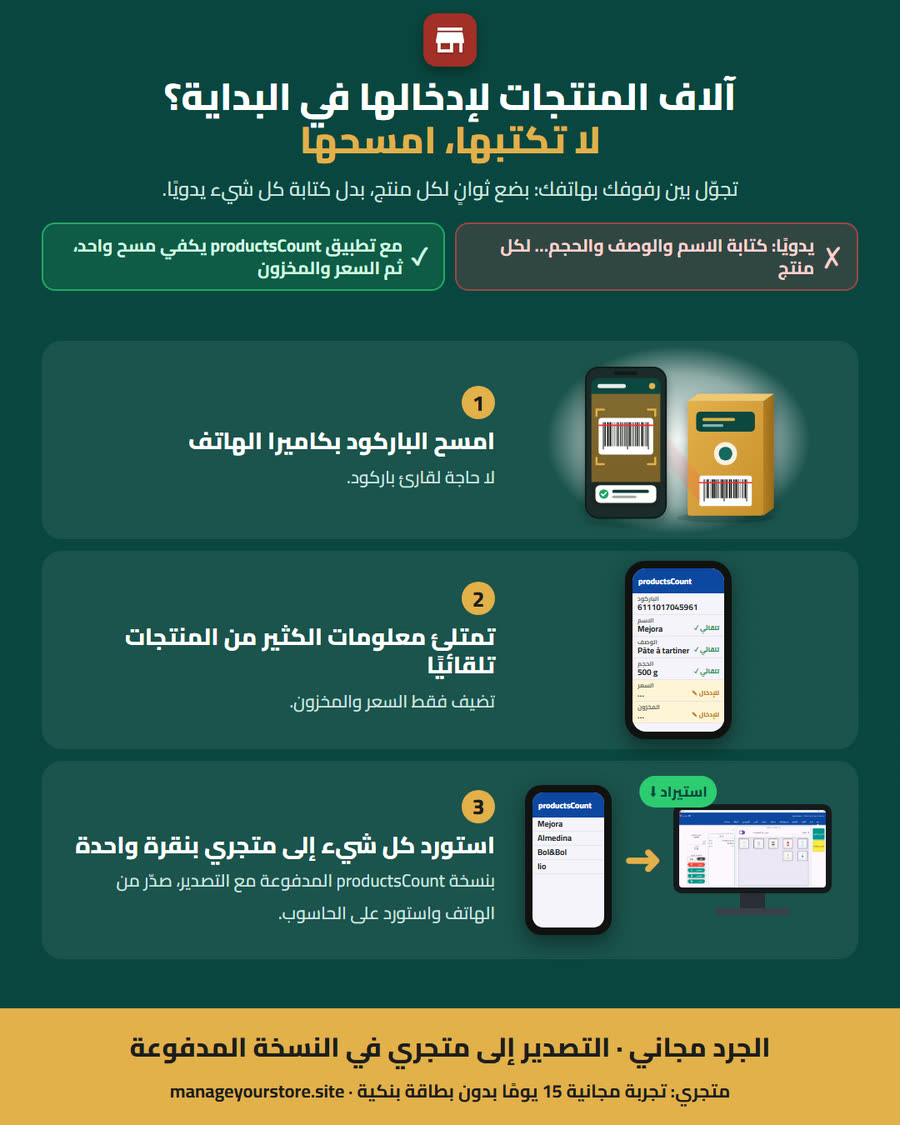
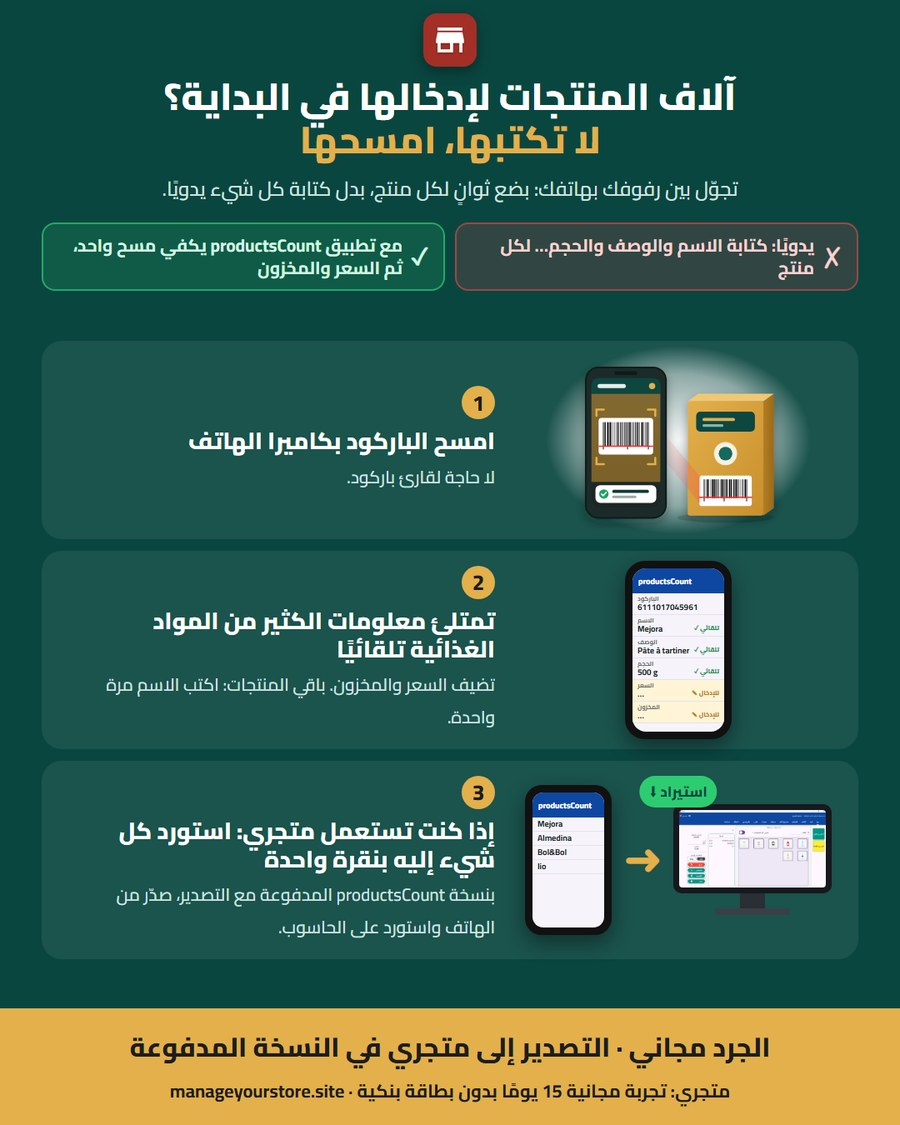
productsCount: say auto-fill is for food and grocery products
Pages and pictures now say the details fill in for food and grocery
products, and that other products are typed once. Picture step 3 says
the import is for shops that use My Store.

diff --git a/productscount.html b/productscount.html
@@ -196,10 +196,10 @@ src="https://www.facebook.com/tr?id=1079131717015007&ev=PageView&noscript=1"
                data-ar="قد يضم المتجر مئات أو آلاف المنتجات. كتابة اسم وحجم وسعر كل منتج يدويًا قبل أن تتمكن من البيع تستغرق أيامًا، وكثير من أصحاب المحلات يتراجعون قبل أن يبدؤوا.">
                 A shop can have hundreds or thousands of items. Typing each name, size and price by hand before you can sell anything takes days, and many shop owners give up before they start.
             </p>
-            <p data-en="&lt;strong&gt;productsCount solves exactly that.&lt;/strong&gt; Scan with the phone camera, and for many products the details fill in by themselves - you only add the price and the quantity. A few seconds per product. Do it little by little in quiet hours, or hand the phone to an employee."
-               data-fr="&lt;strong&gt;productsCount règle exactement ce problème.&lt;/strong&gt; Scannez avec la caméra du téléphone : pour beaucoup de produits, les informations se remplissent toutes seules - vous ajoutez seulement le prix et la quantité. Quelques secondes par produit. Faites-le petit à petit aux heures calmes, ou confiez le téléphone à un employé."
-               data-ar="&lt;strong&gt;productsCount يحل هذه المشكلة بالضبط.&lt;/strong&gt; امسح بكاميرا الهاتف، وبالنسبة لكثير من المنتجات تمتلئ المعلومات تلقائيًا - تضيف أنت فقط السعر والكمية. بضع ثوانٍ لكل منتج. قم بذلك تدريجيًا في أوقات الهدوء، أو سلّم الهاتف لأحد العاملين.">
-                <strong>productsCount solves exactly that.</strong> Scan with the phone camera, and for many products the details fill in by themselves - you only add the price and the quantity. A few seconds per product. Do it little by little in quiet hours, or hand the phone to an employee.
+            <p data-en="&lt;strong&gt;productsCount solves exactly that.&lt;/strong&gt; Scan with the phone camera: for many food and grocery products the details fill in by themselves - you only add the price and the quantity. For other products, type the name once and the app remembers it. A few seconds per product. Do it little by little in quiet hours, or hand the phone to an employee."
+               data-fr="&lt;strong&gt;productsCount règle exactement ce problème.&lt;/strong&gt; Scannez avec la caméra du téléphone : pour beaucoup de produits alimentaires et d'épicerie, les informations se remplissent toutes seules - vous ajoutez seulement le prix et la quantité. Pour les autres produits, tapez le nom une fois : l'application le garde en mémoire. Quelques secondes par produit. Faites-le petit à petit aux heures calmes, ou confiez le téléphone à un employé."
+               data-ar="&lt;strong&gt;productsCount يحل هذه المشكلة بالضبط.&lt;/strong&gt; امسح بكاميرا الهاتف، وبالنسبة لكثير من المواد الغذائية ومنتجات البقالة تمتلئ المعلومات تلقائيًا - تضيف أنت فقط السعر والكمية. أما المنتجات الأخرى فتكتب اسمها مرة واحدة ويحفظه التطبيق. بضع ثوانٍ لكل منتج. قم بذلك تدريجيًا في أوقات الهدوء، أو سلّم الهاتف لأحد العاملين.">
+                <strong>productsCount solves exactly that.</strong> Scan with the phone camera: for many food and grocery products the details fill in by themselves - you only add the price and the quantity. For other products, type the name once and the app remembers it. A few seconds per product. Do it little by little in quiet hours, or hand the phone to an employee.
             </p>
         </div>
     </section>
@@ -234,11 +234,11 @@ src="https://www.facebook.com/tr?id=1079131717015007&ev=PageView&noscript=1"
             </div>
             <div class="pc-card">
                 <div class="pc-ico">⚡</div>
-                <h3 data-en="Details filled in for you" data-fr="Infos remplies pour vous" data-ar="معلومات تمتلئ تلقائيًا">Details filled in for you</h3>
-                <p data-en="For many products, the name, description and size appear by themselves after the scan. Less typing, fewer mistakes."
-                   data-fr="Pour beaucoup de produits, le nom, la description et la contenance apparaissent tout seuls après le scan. Moins de saisie, moins d'erreurs."
-                   data-ar="بالنسبة لكثير من المنتجات، يظهر الاسم والوصف والحجم تلقائيًا بعد المسح. كتابة أقل وأخطاء أقل.">
-                    For many products, the name, description and size appear by themselves after the scan. Less typing, fewer mistakes.
+                <h3 data-en="Details filled in for food products" data-fr="Infos remplies pour l'alimentaire" data-ar="معلومات تلقائية للمواد الغذائية">Details filled in for food products</h3>
+                <p data-en="For many food and grocery products, the name, description and size appear by themselves after the scan. Less typing, fewer mistakes."
+                   data-fr="Pour beaucoup de produits alimentaires et d'épicerie, le nom, la description et la contenance apparaissent tout seuls après le scan. Moins de saisie, moins d'erreurs."
+                   data-ar="بالنسبة لكثير من المواد الغذائية ومنتجات البقالة، يظهر الاسم والوصف والحجم تلقائيًا بعد المسح. كتابة أقل وأخطاء أقل.">
+                    For many food and grocery products, the name, description and size appear by themselves after the scan. Less typing, fewer mistakes.
                 </p>
             </div>
         </div>
@@ -263,9 +263,9 @@ src="https://www.facebook.com/tr?id=1079131717015007&ev=PageView&noscript=1"
             </li>
             <li>
                 <h3 data-en="Check the details" data-fr="Vérifiez les infos" data-ar="راجع المعلومات">Check the details</h3>
-                <p data-en="For many products the name and size fill in automatically. Fix or complete them if needed."
-                   data-fr="Pour beaucoup de produits, le nom et la contenance se remplissent tout seuls. Corrigez ou complétez si besoin."
-                   data-ar="بالنسبة لكثير من المنتجات يمتلئ الاسم والحجم تلقائيًا. صحّحها أو أكملها عند الحاجة.">For many products the name and size fill in automatically. Fix or complete them if needed.</p>
+                <p data-en="For many food and grocery products the name and size fill in automatically. For other products, type them once."
+                   data-fr="Pour beaucoup de produits alimentaires et d'épicerie, le nom et la contenance se remplissent tout seuls. Pour les autres produits, tapez-les une fois."
+                   data-ar="بالنسبة لكثير من المواد الغذائية ومنتجات البقالة يمتلئ الاسم والحجم تلقائيًا. أما المنتجات الأخرى فاكتبها مرة واحدة.">For many food and grocery products the name and size fill in automatically. For other products, type them once.</p>
             </li>
             <li>
                 <h3 data-en="Add price and stock" data-fr="Ajoutez prix et stock" data-ar="أضف السعر والمخزون">Add price and stock</h3>
@@ -348,7 +348,7 @@ src="https://www.facebook.com/tr?id=1079131717015007&ev=PageView&noscript=1"
                     <li data-en="✅ Scan or type barcodes" data-fr="✅ Scanner ou taper les codes-barres" data-ar="✅ مسح الباركود أو كتابته">✅ Scan or type barcodes</li>
                     <li data-en="✅ Count your stock" data-fr="✅ Compter votre stock" data-ar="✅ جرد مخزونك">✅ Count your stock</li>
                     <li data-en="✅ Set purchase and selling prices" data-fr="✅ Fixer prix d'achat et prix de vente" data-ar="✅ تحديد سعر الشراء وسعر البيع">✅ Set purchase and selling prices</li>
-                    <li data-en="✅ Details filled in for many products" data-fr="✅ Infos remplies pour beaucoup de produits" data-ar="✅ معلومات تمتلئ تلقائيًا لكثير من المنتجات">✅ Details filled in for many products</li>
+                    <li data-en="✅ Details filled in for many food products" data-fr="✅ Infos remplies pour beaucoup de produits alimentaires" data-ar="✅ معلومات تلقائية لكثير من المواد الغذائية">✅ Details filled in for many food products</li>
                 </ul>
             </div>
             <div class="pc-plan pc-paid">
@@ -385,10 +385,10 @@ src="https://www.facebook.com/tr?id=1079131717015007&ev=PageView&noscript=1"
         </details>
         <details>
             <summary data-en="What if a product's details don't fill in?" data-fr="Et si les infos d'un produit ne se remplissent pas ?" data-ar="ماذا لو لم تمتلئ معلومات منتج ما؟">What if a product's details don't fill in?</summary>
-            <p data-en="Just type the name yourself, once. The app remembers it, so the next time you scan that barcode it's already there."
-               data-fr="Tapez simplement le nom vous-même, une seule fois. L'application le garde en mémoire : au prochain scan de ce code-barres, il est déjà là."
-               data-ar="اكتب الاسم بنفسك مرة واحدة فقط. يحفظه التطبيق، وفي المرة القادمة التي تمسح فيها هذا الباركود ستجده جاهزًا.">
-                Just type the name yourself, once. The app remembers it, so the next time you scan that barcode it's already there.
+            <p data-en="That's normal outside food and grocery (clothes, phones, hardware...). Just type the name yourself, once. The app remembers it, so the next time you scan that barcode it's already there."
+               data-fr="C'est normal hors alimentation et épicerie (vêtements, téléphones, quincaillerie...). Tapez simplement le nom vous-même, une seule fois. L'application le garde en mémoire : au prochain scan de ce code-barres, il est déjà là."
+               data-ar="هذا طبيعي خارج المواد الغذائية والبقالة (ملابس، هواتف، أدوات...). اكتب الاسم بنفسك مرة واحدة فقط. يحفظه التطبيق، وفي المرة القادمة التي تمسح فيها هذا الباركود ستجده جاهزًا.">
+                That's normal outside food and grocery (clothes, phones, hardware...). Just type the name yourself, once. The app remembers it, so the next time you scan that barcode it's already there.
             </p>
         </details>
         <details>

diff --git a/trial.html b/trial.html
@@ -236,10 +236,10 @@ src="https://www.facebook.com/tr?id=1079131717015007&ev=PageView&noscript=1"
                     data-ar="ليس لديك وقت لإدخال منتجاتك؟">
                     No time to type in products?
                 </h3>
-                <p data-en="Scan barcodes with productsCount, our Android helper app - for many products the details fill in by themselves, then send everything into My Store at once. &lt;a href=&quot;productscount.html&quot;&gt;See how&lt;/a&gt;"
-                   data-fr="Scannez vos codes-barres avec productsCount, notre application Android - pour beaucoup de produits, les infos se remplissent toutes seules, puis envoyez tout dans My Store d'un coup. &lt;a href=&quot;productscount.html&quot;&gt;Voir comment&lt;/a&gt;"
-                   data-ar="امسح الباركود باستخدام productsCount، تطبيقنا المساعد على أندرويد - بالنسبة لكثير من المنتجات تمتلئ المعلومات تلقائيًا، ثم أرسل كل شيء إلى متجري دفعة واحدة. &lt;a href=&quot;productscount.html&quot;&gt;شاهد كيف&lt;/a&gt;">
-                    Scan barcodes with productsCount, our Android helper app - for many products the details fill in by themselves, then send everything into My Store at once. <a href="productscount.html">See how</a>
+                <p data-en="Scan barcodes with productsCount, our Android helper app - for many food and grocery products the details fill in by themselves, then send everything into My Store at once. &lt;a href=&quot;productscount.html&quot;&gt;See how&lt;/a&gt;"
+                   data-fr="Scannez vos codes-barres avec productsCount, notre application Android - pour beaucoup de produits alimentaires et d'épicerie, les infos se remplissent toutes seules, puis envoyez tout dans My Store d'un coup. &lt;a href=&quot;productscount.html&quot;&gt;Voir comment&lt;/a&gt;"
+                   data-ar="امسح الباركود باستخدام productsCount، تطبيقنا المساعد على أندرويد - بالنسبة لكثير من المواد الغذائية ومنتجات البقالة تمتلئ المعلومات تلقائيًا، ثم أرسل كل شيء إلى متجري دفعة واحدة. &lt;a href=&quot;productscount.html&quot;&gt;شاهد كيف&lt;/a&gt;">
+                    Scan barcodes with productsCount, our Android helper app - for many food and grocery products the details fill in by themselves, then send everything into My Store at once. <a href="productscount.html">See how</a>
                 </p>
             </div>
         </div>
